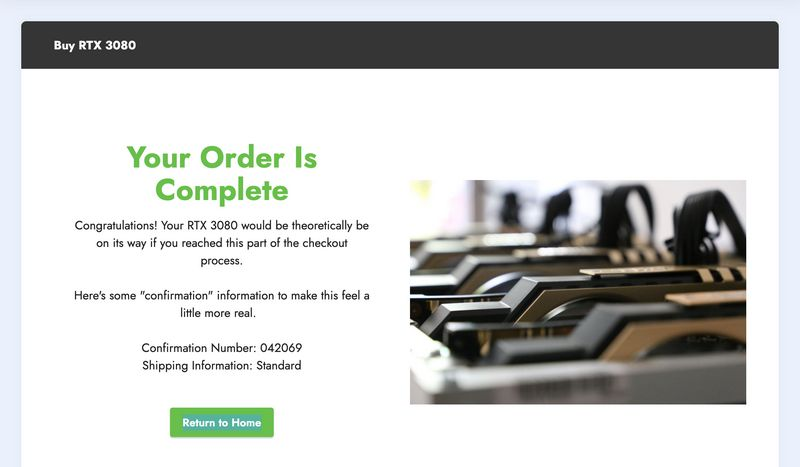
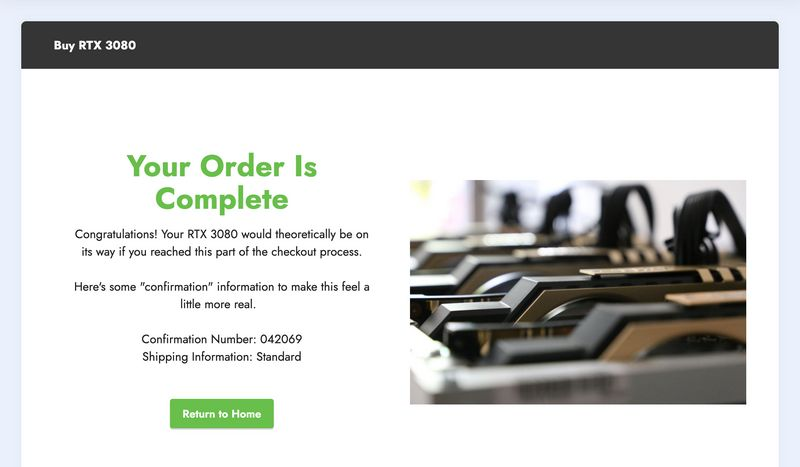
Add files via upload

diff --git a/checkout.html b/checkout.html
@@ -77,7 +77,7 @@
                 <div class="text-wrapper">
                     <h1 class="mbr-section-title mbr-fonts-style mb-3 display-2"><strong>Your Order Is Complete</strong></h1>
                     <p class="mbr-text mbr-fonts-style display-7">
-                        Congratulations! Your RTX 3080 would be theoretically be on its way if you reached this part of the checkout process.<br><br>Here's some "confirmation" information to make this feel a little more real.&nbsp;&nbsp;<br><br>Confirmation Number: 042069<br>Shipping Information: Standard<br><br></p>
+                        Congratulations! Your RTX 3080 would theoretically be on its way if you reached this part of the checkout process.<br><br>Here's some "confirmation" information to make this feel a little more real.&nbsp;&nbsp;<br><br>Confirmation Number: 042069<br>Shipping Information: Standard<br><br></p>
                     <div class="mbr-section-btn mt-3"><a class="btn btn-success display-4" href="index.html">Return to Home</a></div>
                 </div>
             </div>
@@ -100,7 +100,7 @@
             </div>
         </div>
     </div>
-</section><section style="background-color: #fff; font-family: -apple-system, BlinkMacSystemFont, 'Segoe UI', 'Roboto', 'Helvetica Neue', Arial, sans-serif; color:#aaa; font-size:12px; padding: 0; align-items: center; display: flex;"><a href="https://mobirise.site/s" style="flex: 1 1; height: 3rem; padding-left: 1rem;"></a><p style="flex: 0 0 auto; margin:0; padding-right:1rem;">How to start your own site - <a href="https://mobirise.site/x" style="color:#aaa;">Learn more</a></p></section><script src="assets/web/assets/jquery/jquery.min.js"></script>  <script src="assets/popper/popper.min.js"></script>  <script src="assets/tether/tether.min.js"></script>  <script src="assets/bootstrap/js/bootstrap.min.js"></script>  <script src="assets/smoothscroll/smooth-scroll.js"></script>  <script src="assets/dropdown/js/nav-dropdown.js"></script>  <script src="assets/dropdown/js/navbar-dropdown.js"></script>  <script src="assets/touchswipe/jquery.touch-swipe.min.js"></script>  <script src="assets/theme/js/script.js"></script>  
+</section><section style="background-color: #fff; font-family: -apple-system, BlinkMacSystemFont, 'Segoe UI', 'Roboto', 'Helvetica Neue', Arial, sans-serif; color:#aaa; font-size:12px; padding: 0; align-items: center; display: flex;"><a href="https://mobirise.site/v" style="flex: 1 1; height: 3rem; padding-left: 1rem;"></a><p style="flex: 0 0 auto; margin:0; padding-right:1rem;">Start your own site - <a href="https://mobirise.site/w" style="color:#aaa;">Click now</a></p></section><script src="assets/web/assets/jquery/jquery.min.js"></script>  <script src="assets/popper/popper.min.js"></script>  <script src="assets/tether/tether.min.js"></script>  <script src="assets/bootstrap/js/bootstrap.min.js"></script>  <script src="assets/smoothscroll/smooth-scroll.js"></script>  <script src="assets/dropdown/js/nav-dropdown.js"></script>  <script src="assets/dropdown/js/navbar-dropdown.js"></script>  <script src="assets/touchswipe/jquery.touch-swipe.min.js"></script>  <script src="assets/theme/js/script.js"></script>  
   
   
 </body>

diff --git a/index.html b/index.html
@@ -113,7 +113,7 @@
             </div>
         </div>
     </div>
-</section><section style="background-color: #fff; font-family: -apple-system, BlinkMacSystemFont, 'Segoe UI', 'Roboto', 'Helvetica Neue', Arial, sans-serif; color:#aaa; font-size:12px; padding: 0; align-items: center; display: flex;"><a href="https://mobirise.site/r" style="flex: 1 1; height: 3rem; padding-left: 1rem;"></a><p style="flex: 0 0 auto; margin:0; padding-right:1rem;">Mobirise free builder - <a href="https://mobirise.site/p" style="color:#aaa;">Get more</a></p></section><script src="assets/web/assets/jquery/jquery.min.js"></script>  <script src="assets/popper/popper.min.js"></script>  <script src="assets/tether/tether.min.js"></script>  <script src="assets/bootstrap/js/bootstrap.min.js"></script>  <script src="assets/smoothscroll/smooth-scroll.js"></script>  <script src="assets/dropdown/js/nav-dropdown.js"></script>  <script src="assets/dropdown/js/navbar-dropdown.js"></script>  <script src="assets/touchswipe/jquery.touch-swipe.min.js"></script>  <script src="assets/theme/js/script.js"></script>  
+</section><section style="background-color: #fff; font-family: -apple-system, BlinkMacSystemFont, 'Segoe UI', 'Roboto', 'Helvetica Neue', Arial, sans-serif; color:#aaa; font-size:12px; padding: 0; align-items: center; display: flex;"><a href="https://mobirise.site/y" style="flex: 1 1; height: 3rem; padding-left: 1rem;"></a><p style="flex: 0 0 auto; margin:0; padding-right:1rem;">Built with Mobirise - <a href="https://mobirise.site/k" style="color:#aaa;">Get now</a></p></section><script src="assets/web/assets/jquery/jquery.min.js"></script>  <script src="assets/popper/popper.min.js"></script>  <script src="assets/tether/tether.min.js"></script>  <script src="assets/bootstrap/js/bootstrap.min.js"></script>  <script src="assets/smoothscroll/smooth-scroll.js"></script>  <script src="assets/dropdown/js/nav-dropdown.js"></script>  <script src="assets/dropdown/js/navbar-dropdown.js"></script>  <script src="assets/touchswipe/jquery.touch-swipe.min.js"></script>  <script src="assets/theme/js/script.js"></script>  
   
   
 </body>
